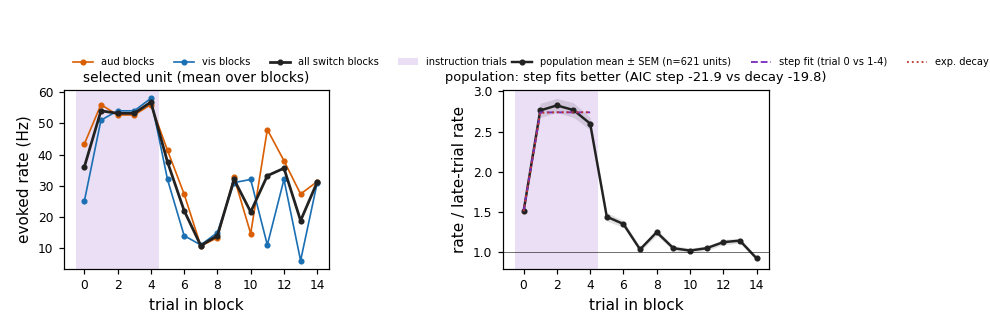
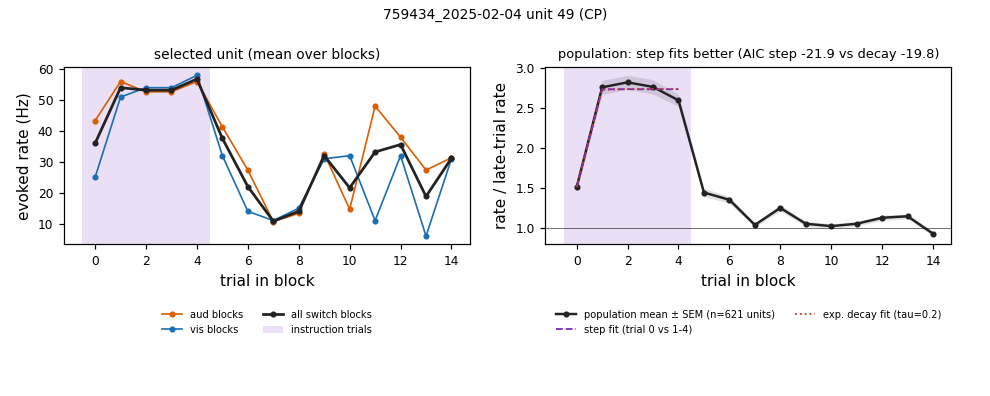
Dynamics panel: legends below axes

diff --git a/code/app_plots.py b/code/app_plots.py
@@ -421,7 +421,7 @@ def instruction_dynamics_plot(unit_prof: pd.DataFrame, pop_prof: pd.DataFrame | 
     pooled. Right: population fold change (rate / unit's late-trial rate) over the same positions for the displayed
     rule-updating set, mean and SEM, with a step-vs-exponential-decay comparison over the instruction trials.
     pop_prof: long table with columns unit_key, rel_trial, fold (one row per unit x position)."""
-    fig, axes = plt.subplots(1, 2, figsize=(9, 3.0), layout="tight")
+    fig, axes = plt.subplots(1, 2, figsize=(9, 3.6), layout="tight")
     ax = axes[0]
     for c, col, lw in (("aud", AUD, 1.1), ("vis", VIS, 1.1), ("both", "#222222", 1.8)):
         p = unit_prof[(unit_prof["context"] == c) & (unit_prof["align"] == "block_start") & (unit_prof["rel_trial"] < n_pos)].sort_values("rel_trial")
@@ -430,7 +430,7 @@ def instruction_dynamics_plot(unit_prof: pd.DataFrame, pop_prof: pd.DataFrame | 
     ax.axvspan(-0.5, instruction_n - 0.5, color=PHASE_COLOR["instruction"], alpha=0.15, lw=0, label="instruction trials")
     ax.set_xlabel("trial in block"); ax.set_ylabel(f"{window} rate (Hz)"); ax.set_xticks(range(0, n_pos, 2)); ax.tick_params(labelsize=8)
     ax.set_title("selected unit (mean over blocks)", fontsize=9)
-    ax.legend(fontsize=6.5, loc="lower left", bbox_to_anchor=(0, 1.08), ncol=4, frameon=False)
+    ax.legend(fontsize=6.5, loc="upper center", bbox_to_anchor=(0.5, -0.32), ncol=2, frameon=False)
     ax = axes[1]
     if pop_prof is not None and len(pop_prof):
         g = pop_prof.groupby("rel_trial")["fold"]
@@ -453,7 +453,7 @@ def instruction_dynamics_plot(unit_prof: pd.DataFrame, pop_prof: pd.DataFrame | 
         ax.text(0.5, 0.5, "no units in the current set", ha="center", va="center", transform=ax.transAxes, fontsize=9)
     ax.axvspan(-0.5, instruction_n - 0.5, color=PHASE_COLOR["instruction"], alpha=0.15, lw=0)
     ax.set_xlabel("trial in block"); ax.set_ylabel("rate / late-trial rate"); ax.set_xticks(range(0, n_pos, 2)); ax.tick_params(labelsize=8)
-    ax.legend(fontsize=6.5, loc="lower left", bbox_to_anchor=(0, 1.08), ncol=3, frameon=False)
+    ax.legend(fontsize=6.5, loc="upper center", bbox_to_anchor=(0.5, -0.32), ncol=2, frameon=False)
     if title:
-        fig.suptitle(title, fontsize=9, y=1.08)
+        fig.suptitle(title, fontsize=9)
     return fig

diff --git a/code/app.py b/code/app.py
@@ -123,7 +123,7 @@ tab_rule = ui.nav_panel(
                         ui.output_plot("r_raster", height="860px")),
                 ui.card(ui.card_header("Mean rate by position in block, per context"), ui.output_plot("r_profile", height="290px")),
                 ui.card(ui.card_header("Instruction-trial dynamics: selected unit and the displayed population (trials 0 to 14 of switch blocks)"),
-                        ui.output_plot("r_dynamics", height="330px")),
+                        ui.output_plot("r_dynamics", height="380px")),
             ),
             ui.div(
                 ui.card(ui.card_header("Rule-change units (click a dot to select)"), output_widget("brain_rule", height="560px")),
